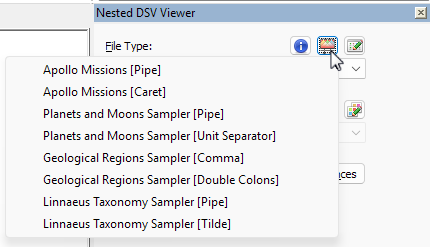
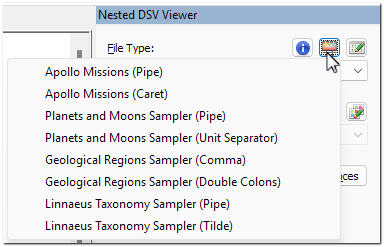
Minor edits of demo file name listings

diff --git a/src/Resources/SamplesMenuDefs.h b/src/Resources/SamplesMenuDefs.h
@@ -13,42 +13,42 @@ struct SampleFileInfo {
 const SampleFileInfo gSampleFiles[] =
 {
    {
-      "Apollo Missions [Pipe]",
+      "Apollo Missions (Pipe)",
       L"ApolloMissions-pipe.dsv",
       "FT001_APOLLO_MISSIONS_-_CREWED_(PIPE)"
    },
    {
-      "Apollo Missions [Caret]",
+      "Apollo Missions (Caret)",
       L"ApolloMissions-caret.dsv",
       "FT002_APOLLO_MISSIONS_-_CREWED_(CARET)"
    },
    {
-      "Planets and Moons Sampler [Pipe]",
+      "Planets and Moons Sampler (Pipe)",
       L"PlanetsMoons-pipe.dsv",
       "FT003_PLANETS_&_MOONS_(PIPE)"
    },
    {
-      "Planets and Moons Sampler [Unit Separator]",
+      "Planets and Moons Sampler (Unit Separator)",
       L"PlanetsMoons-us.dsv",
       "FT004_PLANETS_&_MOONS_(US)"
    },
    {
-      "Geological Regions Sampler [Comma]",
+      "Geological Regions Sampler (Comma)",
       L"GeoRegions-comma.dsv",
       "FT005_GEOLOGICAL_REGIONS_(COMMA)"
    },
    {
-      "Geological Regions Sampler [Double Colons]",
+      "Geological Regions Sampler (Double Colons)",
       L"GeoRegions-dcolon.dsv",
       "FT006_GEOLOGICAL_REGIONS_(2_COLONS)"
    },
    {
-      "Linnaeus Taxonomy Sampler [Pipe]",
+      "Linnaeus Taxonomy Sampler (Pipe)",
       L"Linaeus-pipe.dsv",
       "FT007_LINNAEUS_TAXONOMY_(PIPE)"
    },
    {
-      "Linnaeus Taxonomy Sampler [Tilde]",
+      "Linnaeus Taxonomy Sampler (Tilde)",
       L"Linaeus-tilde.dsv",
       "FT008_LINNAEUS_TAXONOMY_(TILDE)"
    }
